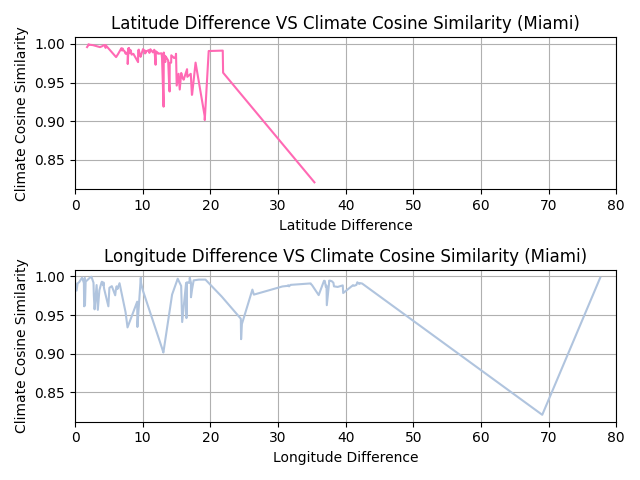
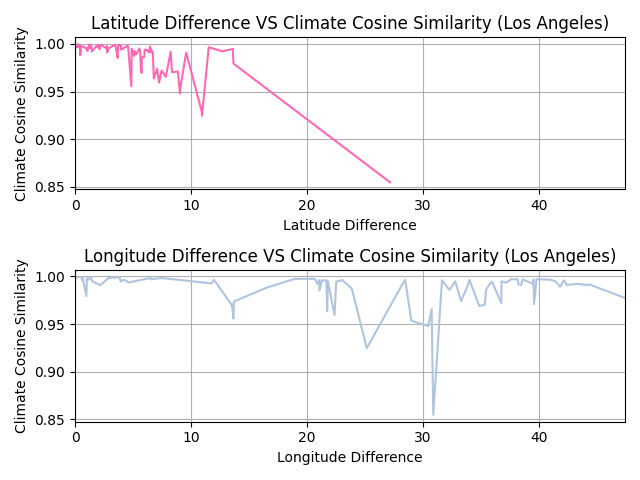
updated xlims for latlon plot

diff --git a/CityClimates.py b/CityClimates.py
@@ -90,15 +90,16 @@ def calculateSimilaritiesByLatLon(cur, conn, city, cosine_similarities):
         x_axis2.append(dist[1])
         y_axis2.append(cosine_similarities[dist[0]])
     fig, (ax1, ax2) = plt.subplots(2)
+    xlim = max(x_axis1[-1], x_axis2[-1])
     # plotting lat
     ax1.plot(x_axis1, y_axis1, 'hotpink', label="Latitude")
     ax1.set(xlabel="Latitude Difference", ylabel="Climate Cosine Similarity", title=f"Latitude Difference VS Climate Cosine Similarity ({city})")
-    ax1.set_xlim(0, 80)
+    ax1.set_xlim(0, xlim)
     ax1.grid()
     # plotting lon
     ax2.plot(x_axis2, y_axis2, 'lightsteelblue', label="Longitude")
     ax2.set(xlabel="Longitude Difference", ylabel="Climate Cosine Similarity", title=f"Longitude Difference VS Climate Cosine Similarity ({city})")
-    ax2.set_xlim(0, 80)
+    ax2.set_xlim(0, xlim)
     ax2.grid()
     fig.tight_layout()
     fig.savefig("similarityLatLonPlot.png")
